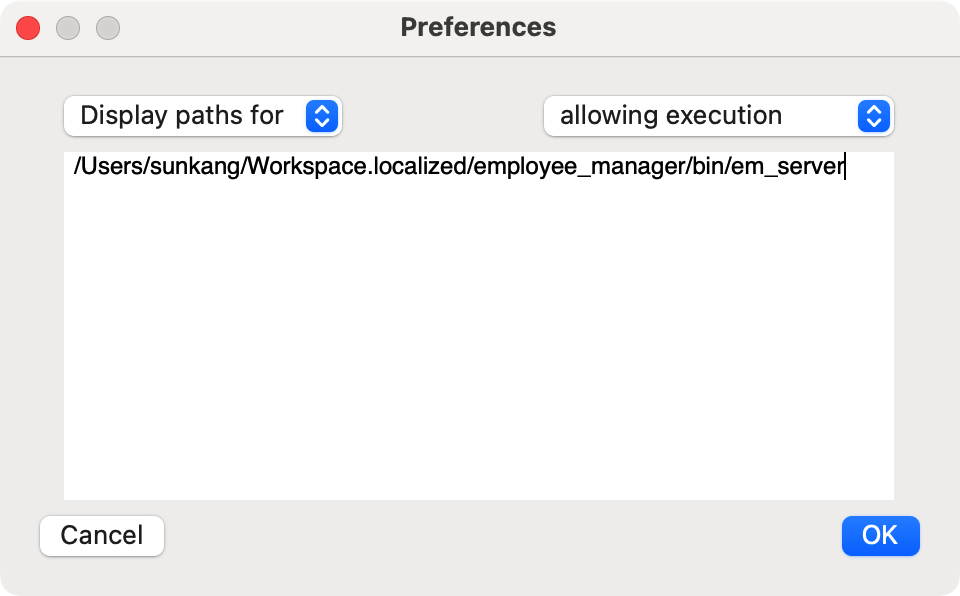
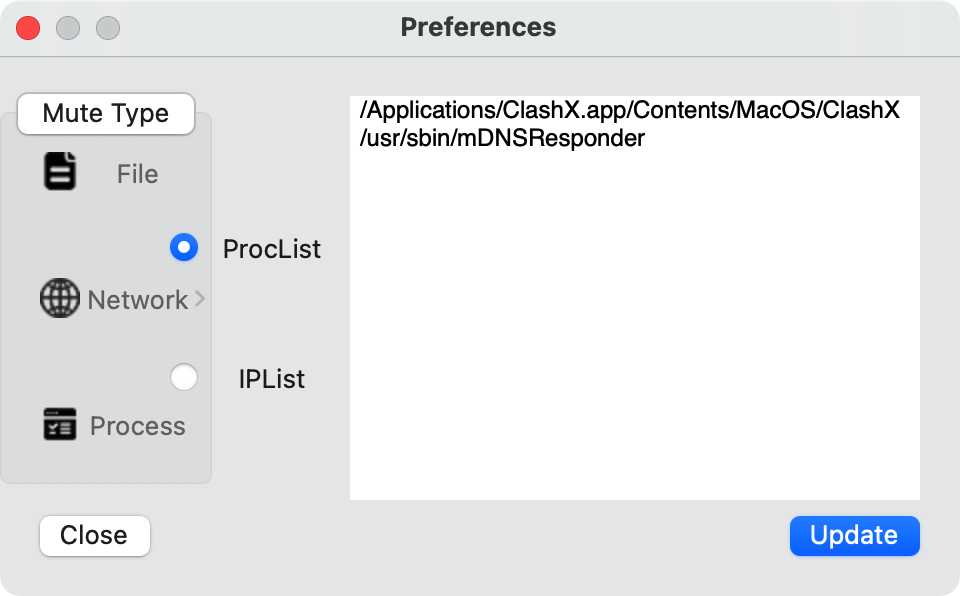
UPDATE readme

Changed region(s): [[0.0, 0.151, 0.9375, 0.9362], [0.8125, 0.8456, 0.9375, 0.9362]]

diff --git a/README.md b/README.md
@@ -44,4 +44,8 @@ NuwaStone wont't let unsigned app run without your authorization, but the app wi
 <p align="center"><img src="https://raw.githubusercontent.com/ConradSun/NuwaStone/main/Docs/Preferences.png" width=512></p>
 
 Select 'Preferences' from the status bar menu of **NuwaClient** application to check or update user preferences.
-It supports 'add/remove/display' paths for filtering 'file/network' events or 'allowing/denying' execution.
+It supports filtering as below
+
+- Mute file events by file paths or process paths
+- Mute network events by process paths or remote ip addresses
+- Mute process events by allowing or denying binary paths
